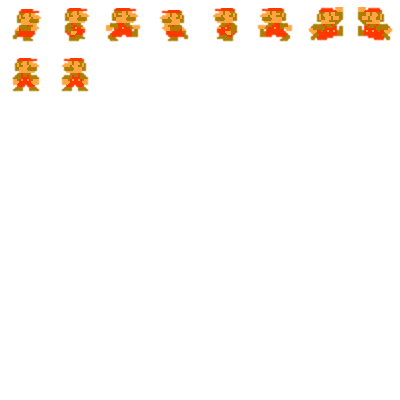
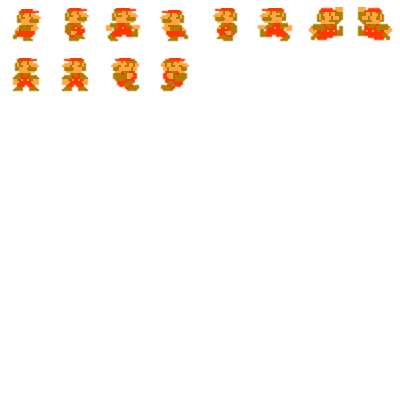
Rename SpriteMap to PlayerSpriteMap

Changed region(s): [[0.39, 0.12, 0.48, 0.24], [0.27, 0.12, 0.36, 0.24]]

diff --git a/src/Mario.ts b/src/Mario.ts
@@ -1,10 +1,9 @@
-import { Animation } from './Animation';
-import { SpriteMap, SpriteSheetData } from './ISpriteMap';
-import { Player, Position } from './Player';
+import { PlayerSpriteMap, SpriteSheetData } from './ISpriteMap';
+import { Player } from './Player';
 import { Surface } from './Surface';
 
 export class Mario extends Player {
-  protected _spriteMap: SpriteMap = {
+  protected _spriteMap: PlayerSpriteMap = {
     'backward': {
       frameCount: 3,
       height: this._power === 'sm' ? 50 : 0,
@@ -25,6 +24,13 @@ export class Mario extends Player {
       height: this._power === 'sm' ? 50 : 0,
       startX: this._direction === 'left' ? 350 : 300,
       startY: 0,
+      width: 50,
+    },
+    'skid': {
+      frameCount: 1,
+      height: this._power === 'sm' ? 50 : 0,
+      startX: this._direction === 'left' ? 100 : 150,
+      startY: 50,
       width: 50,
     },
     'still': {
@@ -48,6 +54,8 @@ export class Mario extends Player {
     this._spriteMap.forward.height = this._power === 'sm' ? 50 : 0;
     this._spriteMap.jump.height = this._power === 'sm' ? 50 : 0;
     this._spriteMap.jump.startX = this._direction === 'left' ? 350 : 300;
+    this._spriteMap.skid.height = this._power === 'sm' ? 50 : 0;
+    this._spriteMap.skid.startX = this._direction === 'left' ? 100 : 150;
     this._spriteMap.still.height = this._power === 'sm' ? 50 : 0;
     this._spriteMap.still.startX = this._direction === 'left' ? 50 : 0;
   };

diff --git a/src/Player.ts b/src/Player.ts
@@ -1,16 +1,16 @@
 import { ISprite } from './ISprite';
-import { SpriteMap } from './ISpriteMap';
+import { PlayerSpriteMap } from './ISpriteMap';
 import { Observable } from './Observable';
 import { Surface } from './Surface';
 
-export type PlayerAction = 'still' | 'forward' | 'backward' | 'jump' | 'crouch';
+export type PlayerAction = 'still' | 'forward' | 'backward' | 'jump' | 'crouch' | 'skid';
 export type PlayerDirection = 'left' | 'right';
 export type PlayerPower = 'sm' | 'lg' | 'fp';
 export type Position = { x: number; y: number; };
 
 export abstract class Player extends Observable<'move' | 'stop', Position> implements ISprite {
   /** Map PlayerActions to the sprite sheet. */
-  protected abstract _spriteMap: SpriteMap;
+  protected abstract _spriteMap: PlayerSpriteMap;
 
   /** The current action of the player. Default `still` */
   protected _action: PlayerAction = 'still';

diff --git a/src/Screen.ts b/src/Screen.ts
@@ -53,11 +53,14 @@ export class Screen {
       if (movement.includes(currentKey)) {
         if (event.key === FORWARD_KEY) {
           Screen._player.setAction('forward');
-        } else if (event.key === BACKWARD_KEY) {
+        }
+        else if (event.key === BACKWARD_KEY) {
           Screen._player.setAction('backward');
-        } else if (event.key === JUMP_KEY) {
+        }
+        else if (event.key === JUMP_KEY) {
           Screen._player.setAction('jump');
-        } else if (currentKey === RUN_WALK_KEY) {
+        }
+        else if (currentKey === RUN_WALK_KEY) {
           Screen._player.isRunning = true;
           Background.speed = 8;
         }

diff --git a/src/ISpriteMap.ts b/src/ISpriteMap.ts
@@ -19,4 +19,4 @@ export type SpriteSheetData = {
   width: number;
 };
 
-export type SpriteMap = Record<PlayerAction, SpriteSheetData>;
+export type PlayerSpriteMap = Record<PlayerAction, SpriteSheetData>;
